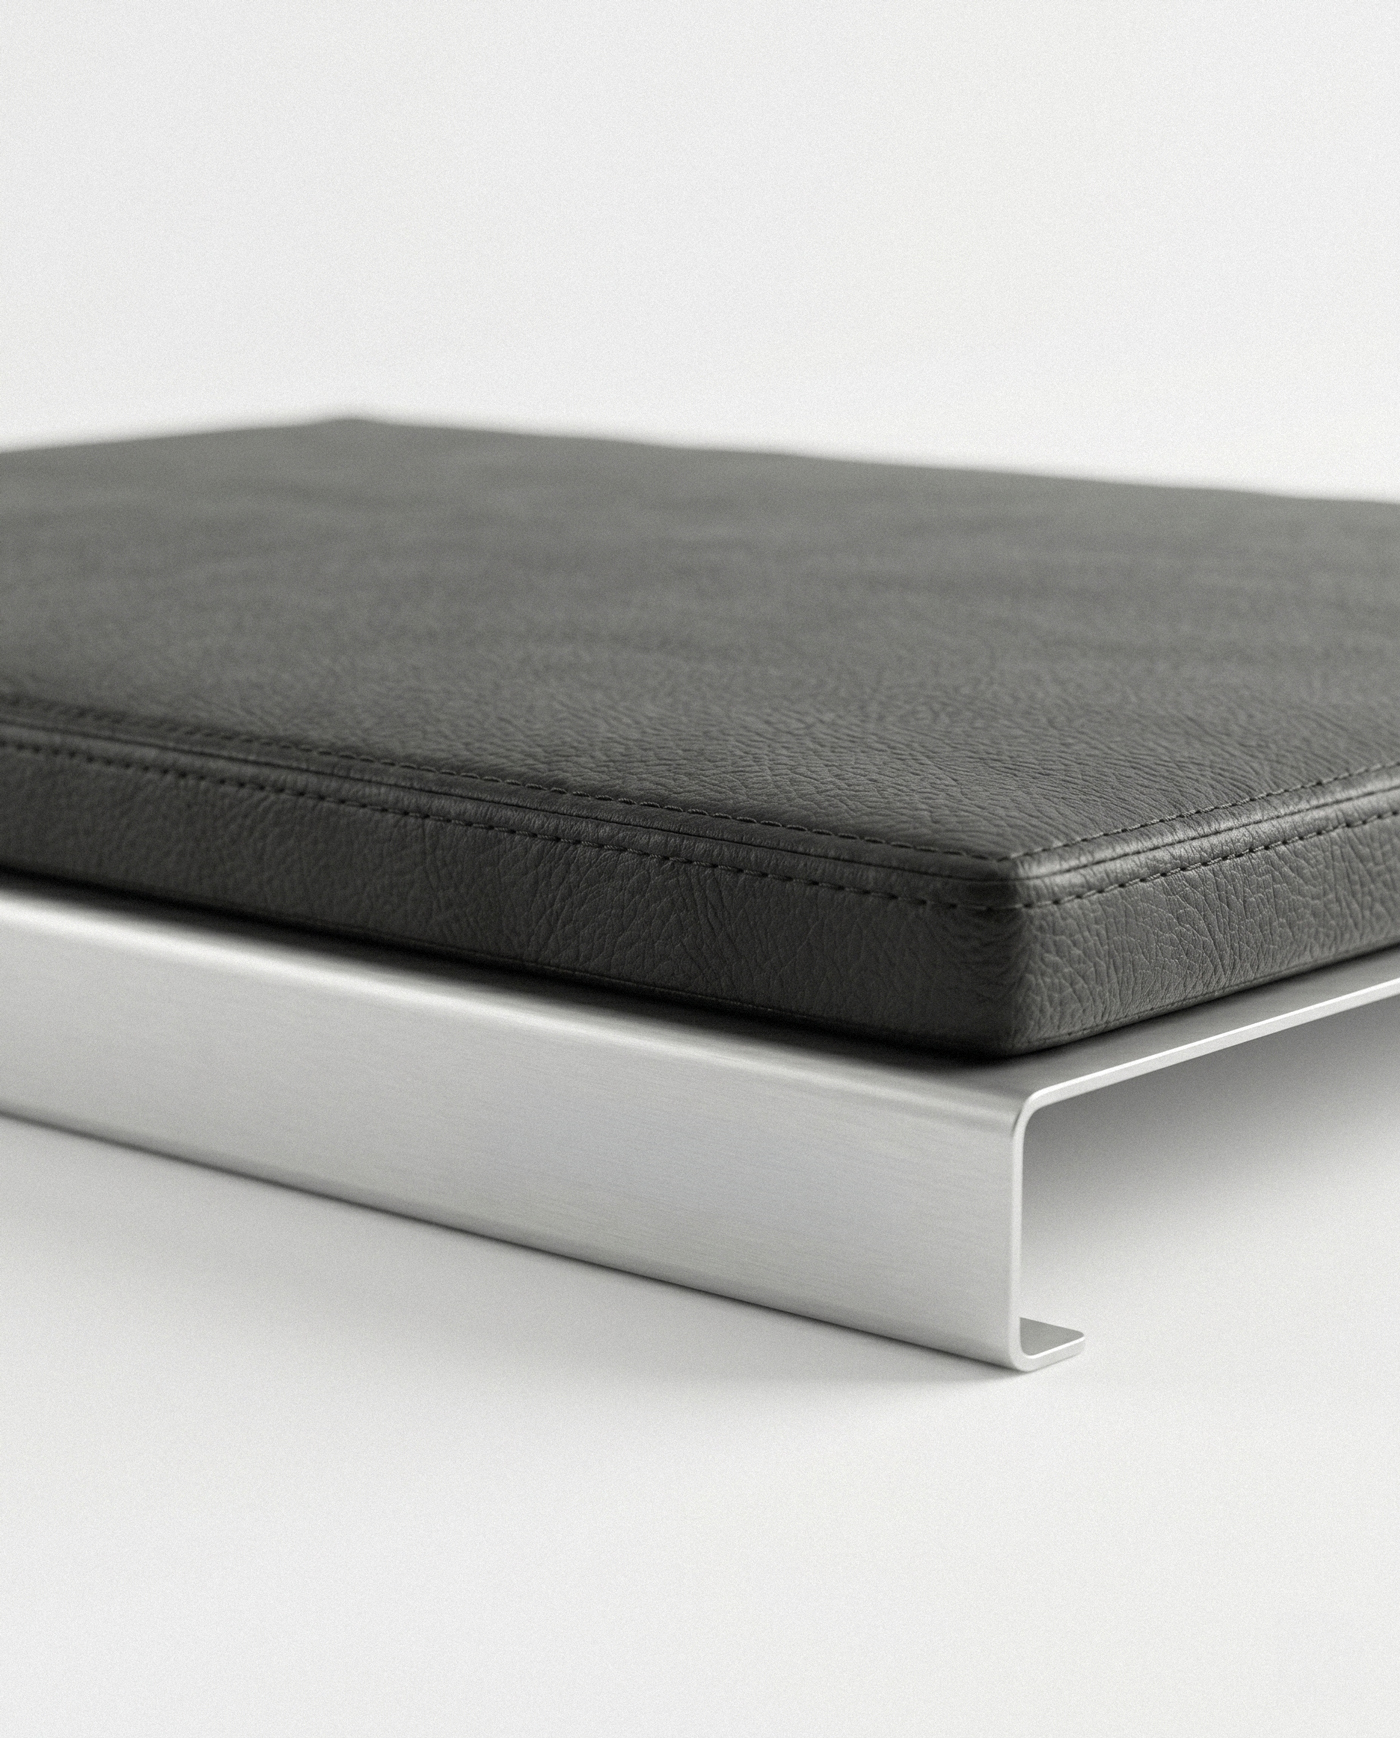
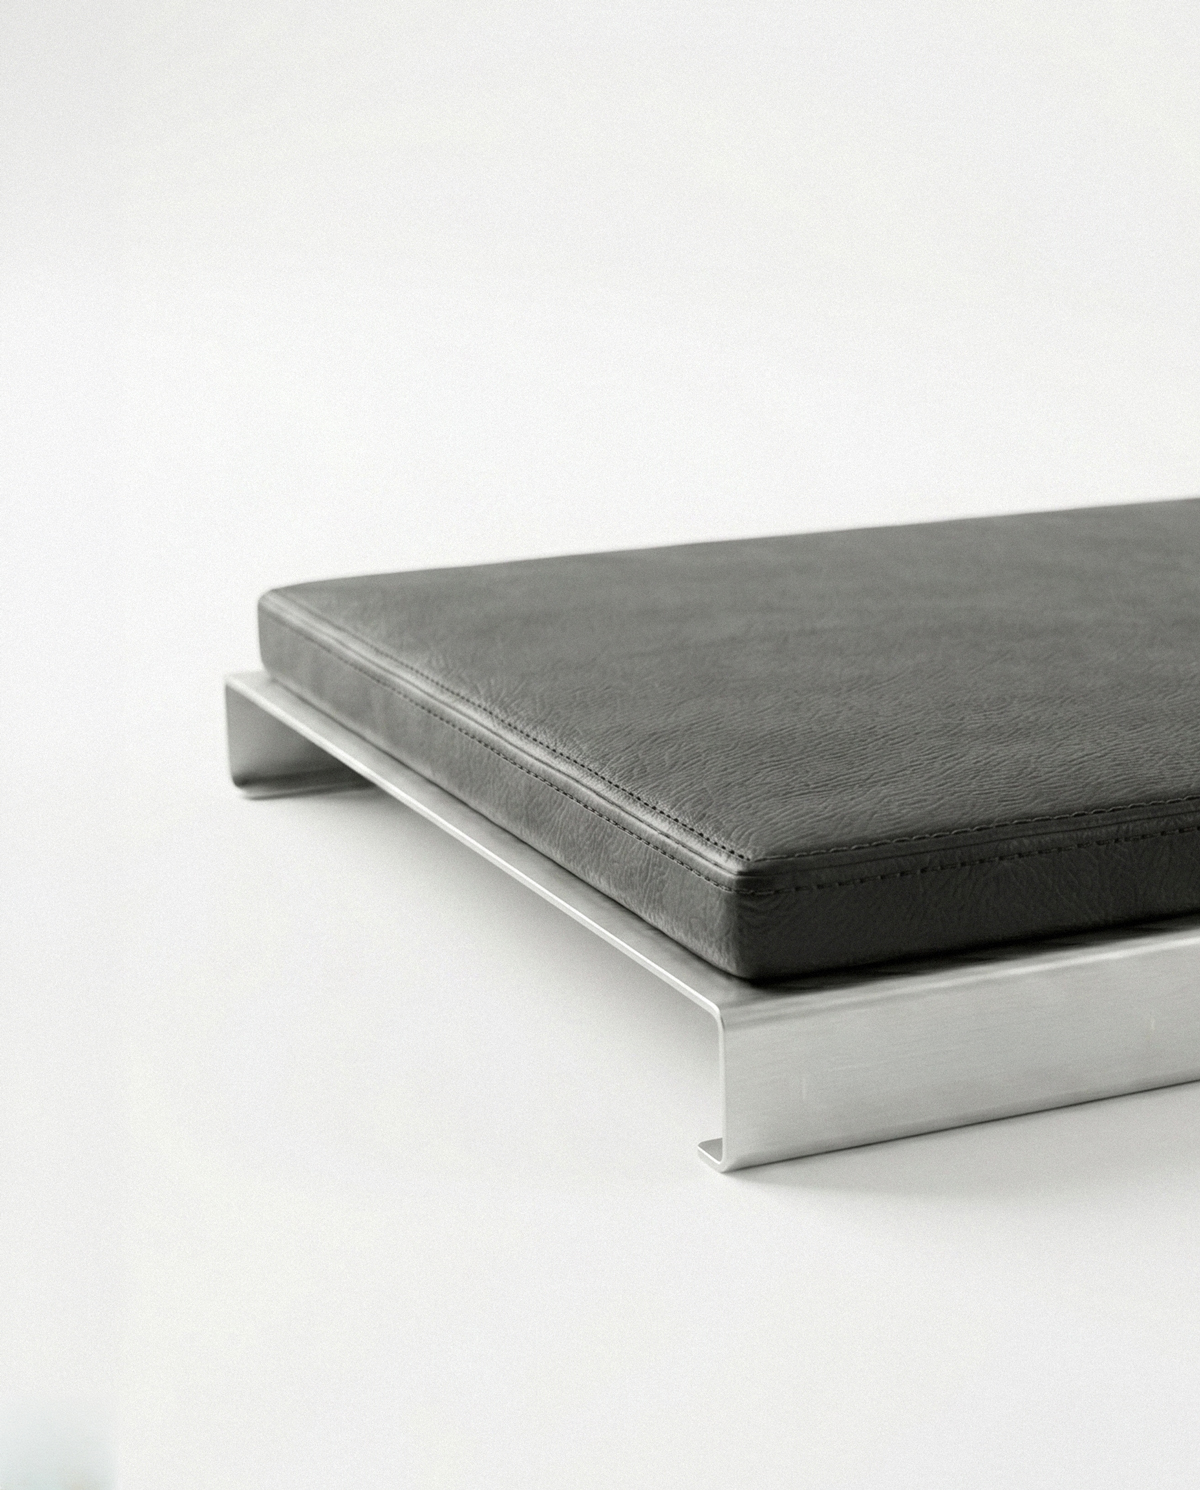
Actualizar imágenes Cesca y Bloq, renombrar a Cama Módulo

diff --git a/index.html b/index.html
@@ -844,9 +844,9 @@
 
             <div class="producto-card reveal d3">
                 <div class="producto-img-wrap">
-                    <img src="images/Bloq.jpg" alt="Cama Bloq">
+                    <img src="images/Bloq.jpg" alt="Cama Módulo">
                 </div>
-                <div class="producto-name">Cama Bloq</div>
+                <div class="producto-name">Cama Módulo</div>
             </div>
         </div>
     </section>